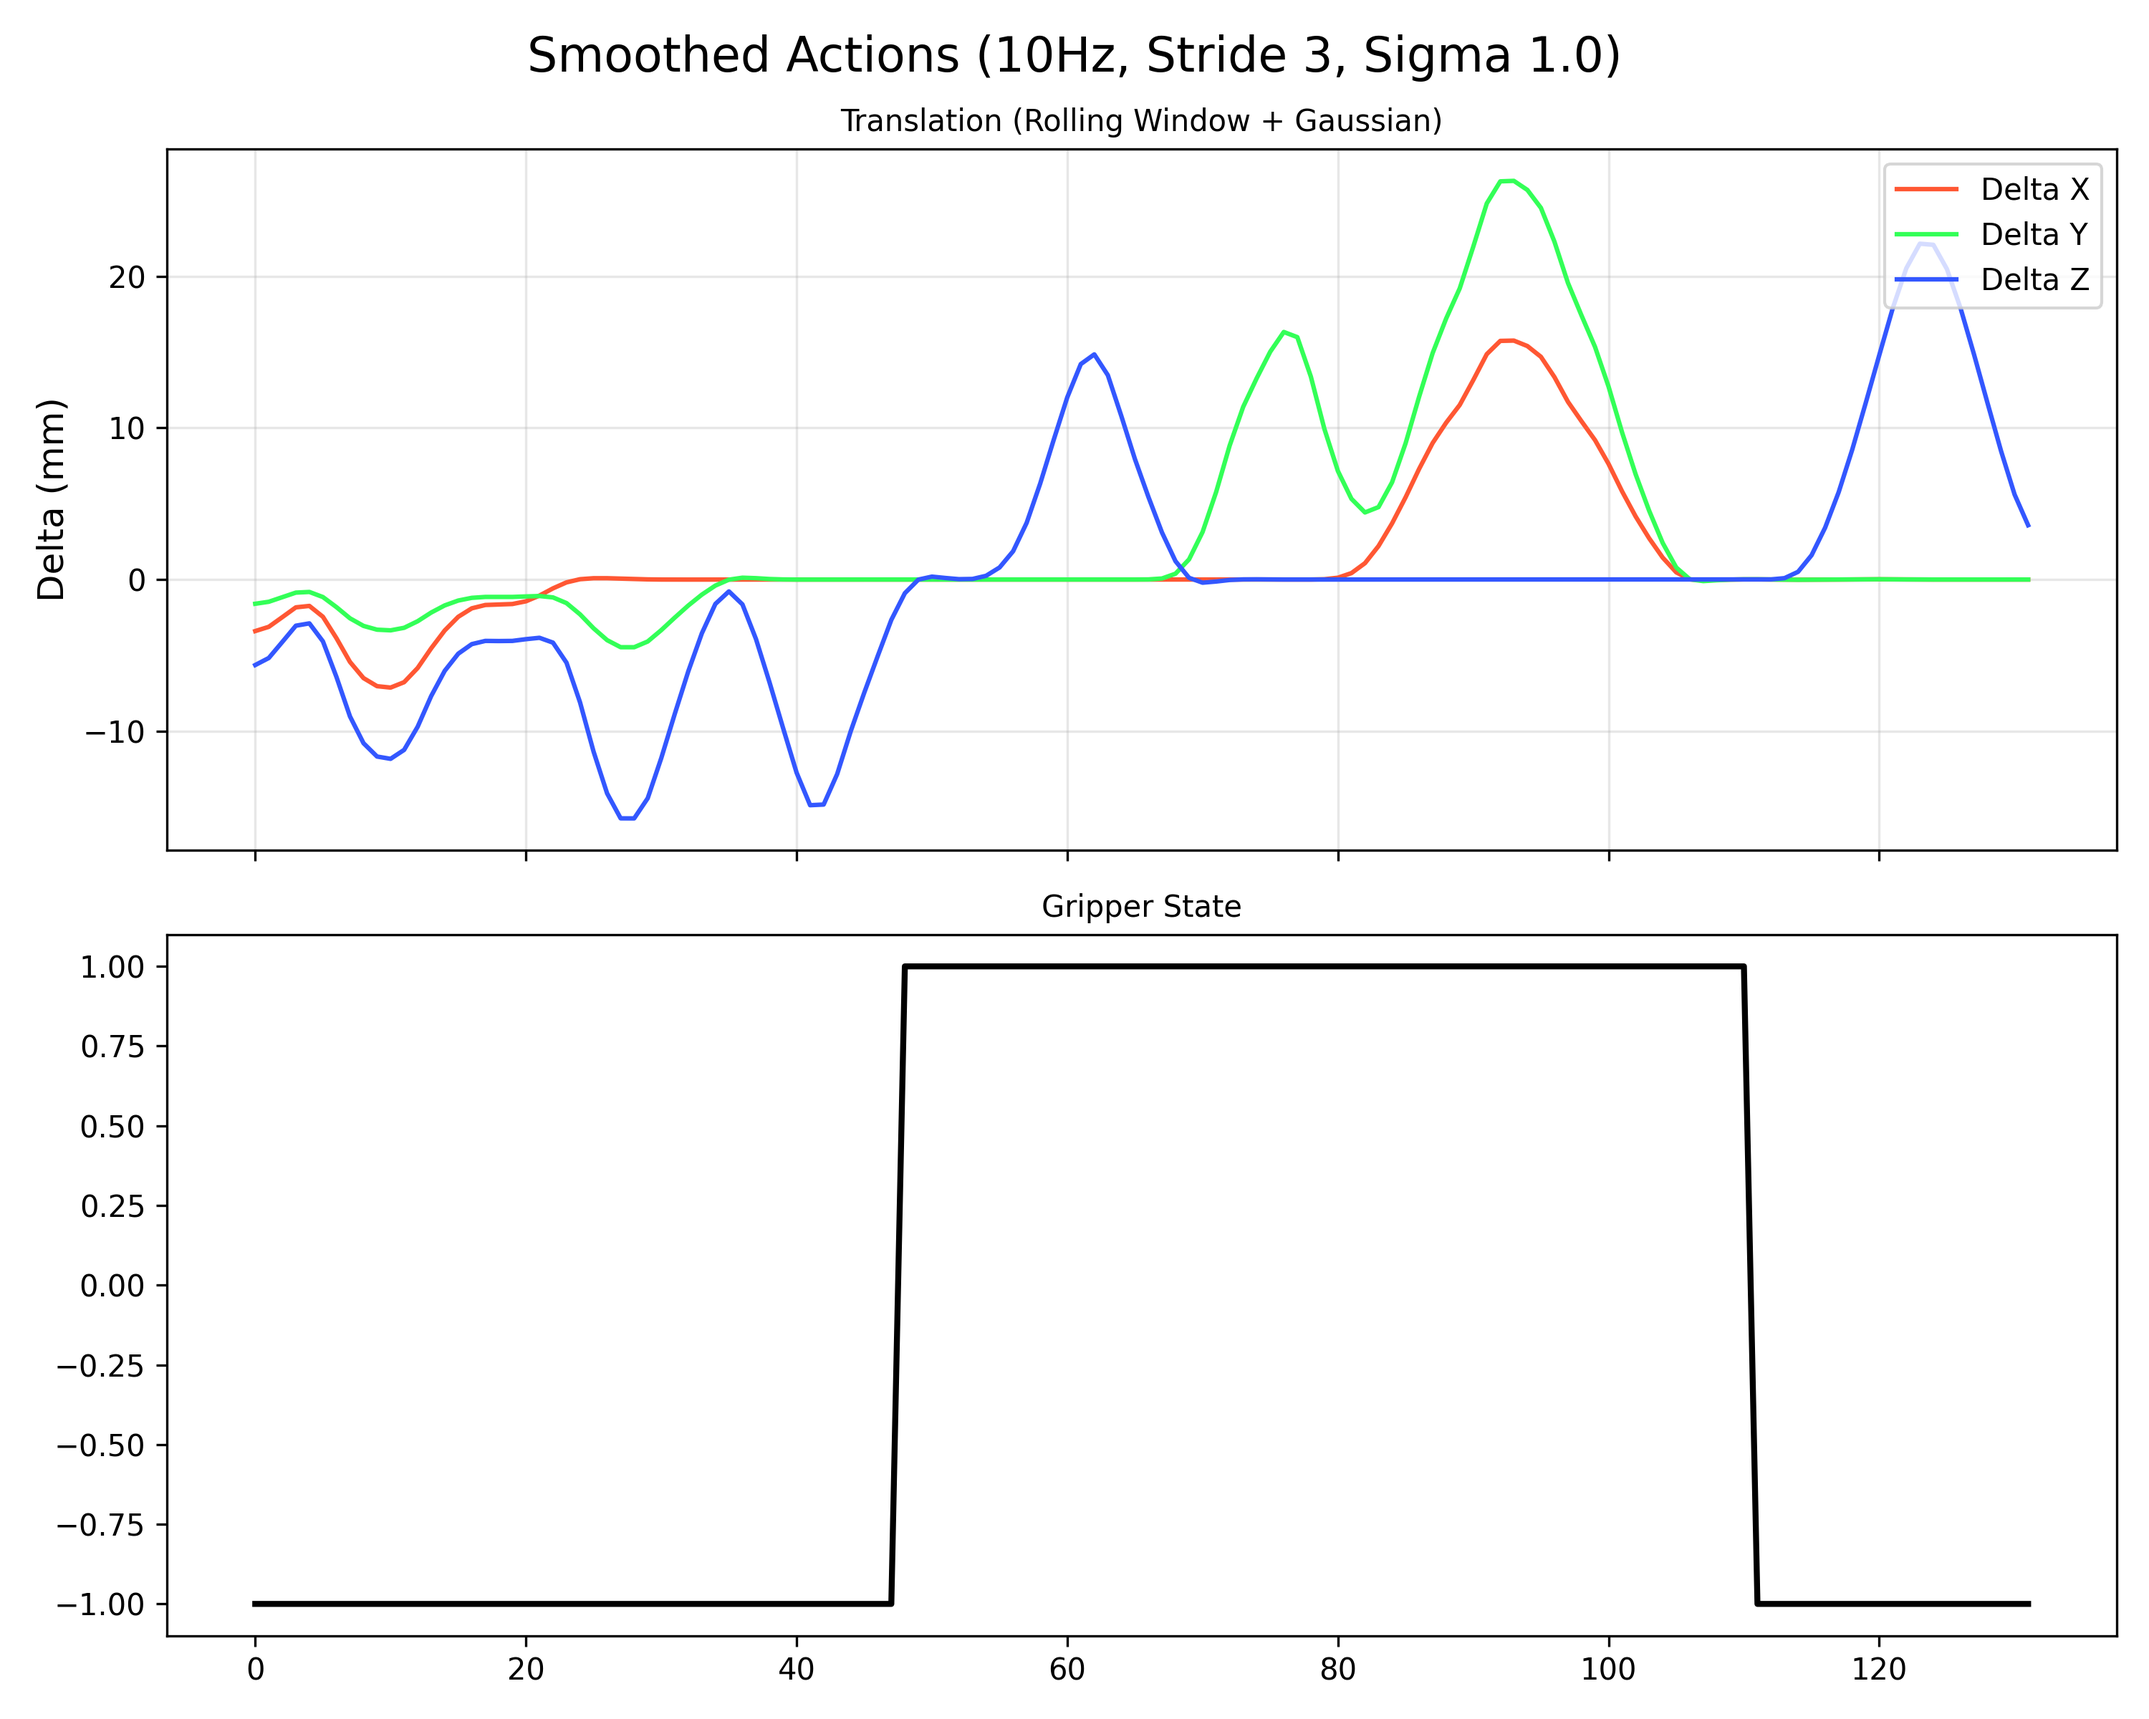
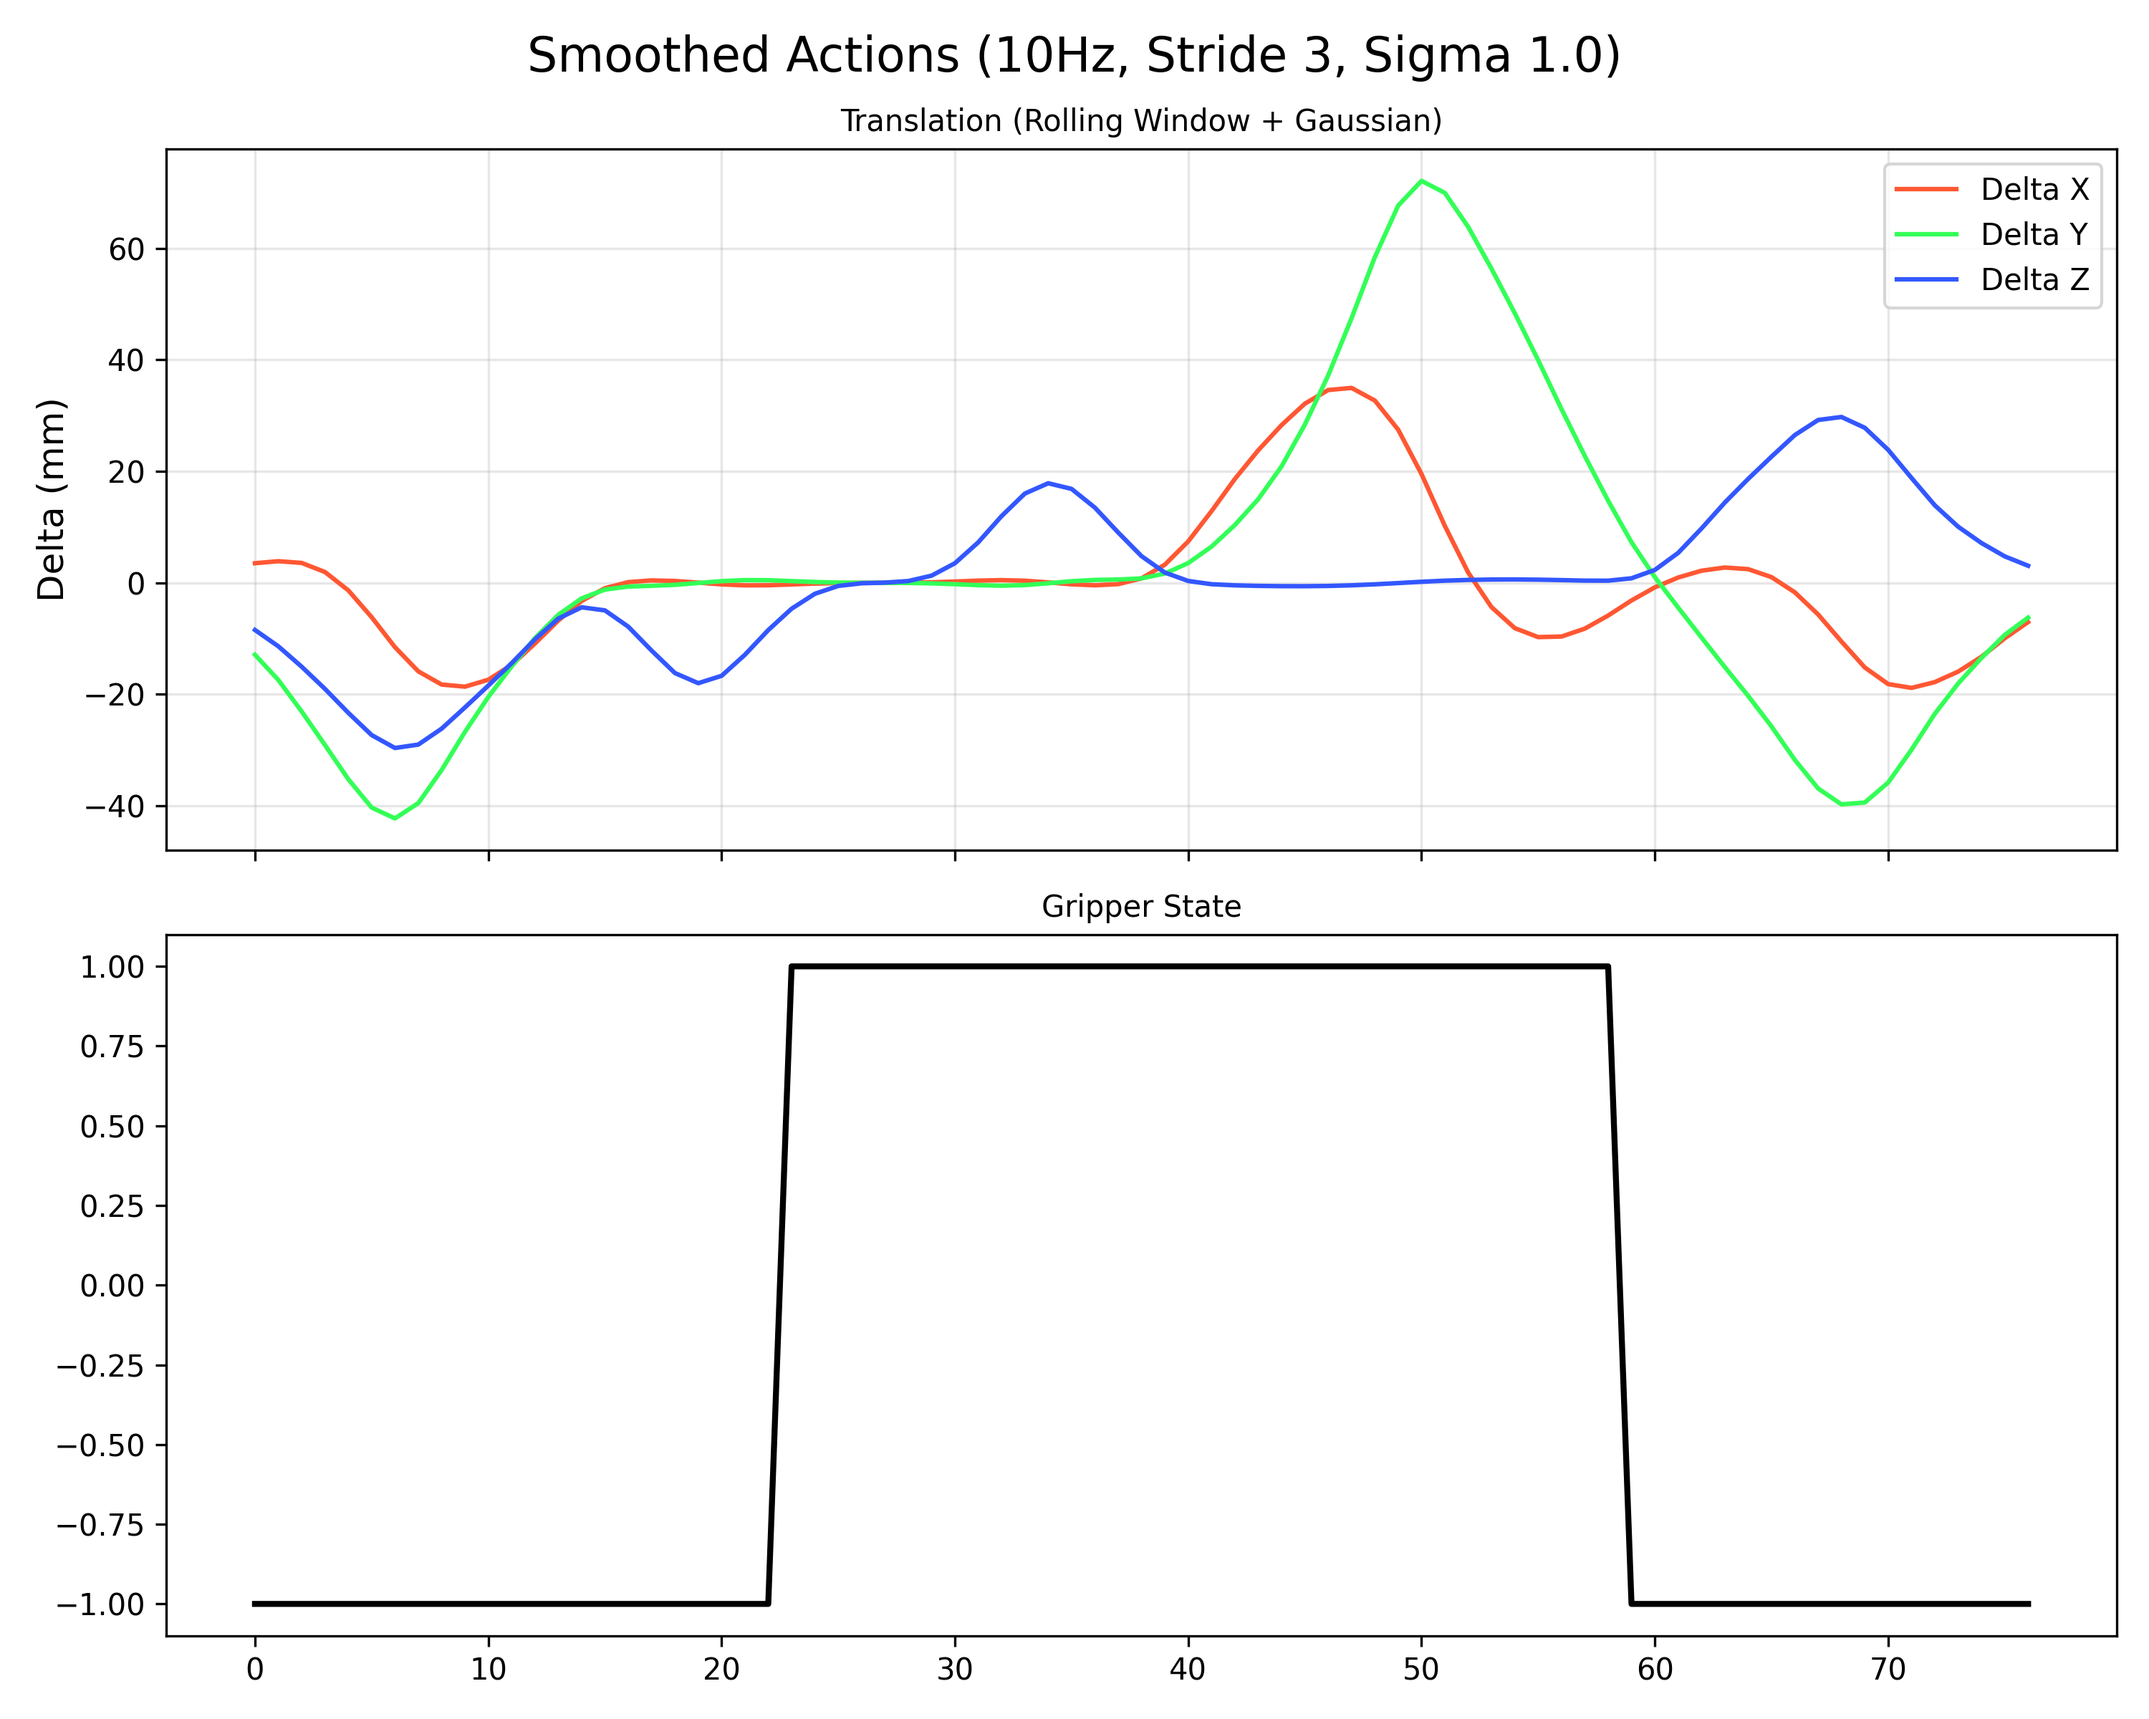
simplify script

diff --git a/record_simple.py b/record_simple.py
@@ -1,0 +1,177 @@
+import os
+import time
+import cv2
+import numpy as np
+import h5py
+import glob
+import random
+import DobotDllType as dType
+
+# --- CONFIGURATION ---
+DATASET_DIR = "dataset_hdf5/simple_session"
+CAM_INDEX = 1
+EXPOSURE_VAL = -6
+
+# Workspace
+Z_SAFE = -40.0   
+Z_PICK = -75.0  
+Z_HOVER = 50.0 
+
+PICK_ZONE  = {"x": (80, 160), "y": (-120, 0)}
+PLACE_ZONE = {"x": (140, 220), "y": (80, 200)}
+HOME_ZONE  = {"x": (120, 180), "y": (0, 80)}
+
+api = dType.load()
+cam = None
+
+def initialize():
+    global cam, api
+    print("--- Initializing ---")
+    
+    cam = cv2.VideoCapture(CAM_INDEX, cv2.CAP_DSHOW)
+    if EXPOSURE_VAL != 0:
+        cam.set(cv2.CAP_PROP_AUTO_EXPOSURE, 1) 
+        cam.set(cv2.CAP_PROP_EXPOSURE, EXPOSURE_VAL)
+    
+    state = dType.ConnectDobot(api, "", 115200)[0]
+    if state != dType.DobotConnect.DobotConnect_NoError:
+        print("[ERROR] Connect Failed")
+        exit()
+
+    dType.ClearAllAlarmsState(api)
+    dType.SetQueuedCmdStopExec(api)
+    dType.SetQueuedCmdClear(api)
+    
+    # Standard PTP Speed
+    dType.SetPTPCommonParams(api, 30, 30, isQueued=1) 
+    dType.SetPTPJumpParams(api, 20, 100, isQueued=1)
+    
+    print("--> Ready.")
+
+def set_suction(val, queued=1):
+    return dType.SetEndEffectorSuctionCup(api, 1, 1 if val > 0 else 0, isQueued=queued)[0]
+
+def move_ptp(x, y, z, mode=dType.PTPMode.PTPMOVJXYZMode):
+    # Just queues the command, returns index
+    return dType.SetPTPCmd(api, mode, x, y, z, 0, isQueued=1)[0]
+
+def move_and_wait(x, y, z):
+    """
+    Setup moves: Queue -> Execute -> Wait for Finish.
+    """
+    dType.SetQueuedCmdStopExec(api)
+    dType.SetQueuedCmdClear(api)
+    
+    last_idx = move_ptp(x, y, z)
+    dType.SetQueuedCmdStartExec(api)
+    
+    # Wait for the specific index to finish
+    while dType.GetQueuedCmdCurrentIndex(api)[0] < last_idx:
+        time.sleep(0.1)
+        
+    dType.SetQueuedCmdStopExec(api)
+    dType.SetQueuedCmdClear(api)
+
+def get_real_state():
+    pose = dType.GetPose(api)
+    grip = dType.GetEndEffectorSuctionCup(api)[0]
+    return list(pose[0:4]) + [0.0, 0.0, 1.0 if grip == 1 else -1.0]
+
+def run_simple_episode():
+    print("\n=== NEW EPISODE (Simple) ===")
+    
+    # 1. Random Targets
+    pick_x = random.uniform(*PICK_ZONE["x"])
+    pick_y = random.uniform(*PICK_ZONE["y"])
+    place_x = random.uniform(*PLACE_ZONE["x"])
+    place_y = random.uniform(*PLACE_ZONE["y"])
+    home_x = random.uniform(*HOME_ZONE["x"])
+    home_y = random.uniform(*HOME_ZONE["y"])
+    
+    # 2. Setup
+    print("--> Moving to Pick...")
+    move_and_wait(pick_x, pick_y, Z_SAFE)
+    input("Place Block. Press ENTER.")
+    
+    print("--> Moving to Place...")
+    move_and_wait(place_x, place_y, Z_SAFE)
+    input("Clear Zone. Press ENTER.")
+    
+    print("--> Moving Home...")
+    move_and_wait(home_x, home_y, Z_HOVER)
+    
+    # 3. QUEUE THE MISSION
+    print("--> Uploading Command List...")
+    dType.SetQueuedCmdStopExec(api)
+    dType.SetQueuedCmdClear(api)
+    time.sleep(0.5)
+    
+    # We capture 'last_index' to know exactly when to stop recording
+    move_ptp(pick_x, pick_y, Z_SAFE)      
+    move_ptp(pick_x, pick_y, Z_PICK)      
+    set_suction(1.0)                      
+    dType.SetWAITCmd(api, 500, isQueued=1)
+    move_ptp(pick_x, pick_y, Z_SAFE)      
+    move_ptp(place_x, place_y, Z_SAFE)    
+    move_ptp(place_x, place_y, Z_SAFE)    
+    set_suction(-1.0)                     
+    
+    # CRITICAL: Save the Ticket Number of the LAST command
+    last_index = move_ptp(place_x, place_y, Z_HOVER-20)
+
+    # 4. EXECUTE & RECORD
+    print("--> Clearing Camera Buffer...")
+    for _ in range(5): cam.read()
+    
+    buffer = []
+    print(f"--> Action! (Waiting for Index {last_index})")
+    dType.SetQueuedCmdStartExec(api)
+    
+    while True:
+        # Capture
+        ret, frame = cam.read()
+        if ret:
+            state = get_real_state()
+            buffer.append({'top': frame, 'state': state, 'action': state})
+        
+        # Check Status
+        current_index = dType.GetQueuedCmdCurrentIndex(api)[0]
+        
+        # STOP Condition: Robot has reached the ticket number of the final command
+        if current_index >= last_index:
+            print(f"--> Robot Finished (Index {current_index} >= {last_index})")
+            break
+            
+        time.sleep(0.05) 
+
+    dType.SetQueuedCmdStopExec(api)
+    dType.SetQueuedCmdClear(api)
+    print(f"--> Done. Captured {len(buffer)} frames.")
+    return buffer
+
+def save_hdf5(buffer):
+    if not buffer: return
+    if not os.path.exists(DATASET_DIR): os.makedirs(DATASET_DIR)
+    
+    next_id = len(glob.glob(os.path.join(DATASET_DIR, "episode_*.h5"))) + 1
+    fname = os.path.join(DATASET_DIR, f"episode_{next_id:03d}.h5")
+    
+    print(f"--> Saving {fname}...")
+    with h5py.File(fname, 'w') as f:
+        f.create_dataset('observations/images/top', data=np.array([b['top'] for b in buffer]), compression="gzip")
+        f.create_dataset('observations/state', data=np.array([b['state'] for b in buffer]))
+        f.create_dataset('action', data=np.array([b['action'] for b in buffer]))
+    print("Saved.")
+
+def main():
+    initialize()
+    while True:
+        buf = run_simple_episode()
+        ans = input("Save? [Y/N/Q]: ").upper()
+        if ans == 'Y': save_hdf5(buf)
+        elif ans == 'Q': break
+    
+    dType.DisconnectDobot(api)
+
+if __name__ == "__main__":
+    main()

diff --git a/sketch_deltas.py b/sketch_deltas.py
@@ -4,7 +4,7 @@ import matplotlib.pyplot as plt
 import os
 
 # --- CONFIGURATION ---
-FILE_PATH = "dataset_hdf5/interactive_session_fixed/episode_004.h5" 
+FILE_PATH = "dataset_hdf5/simple_session/episode_002.h5" 
 OUTPUT_PLOT = "debug_rolling_stride.png"
 
 RECORDING_HZ = 10 
